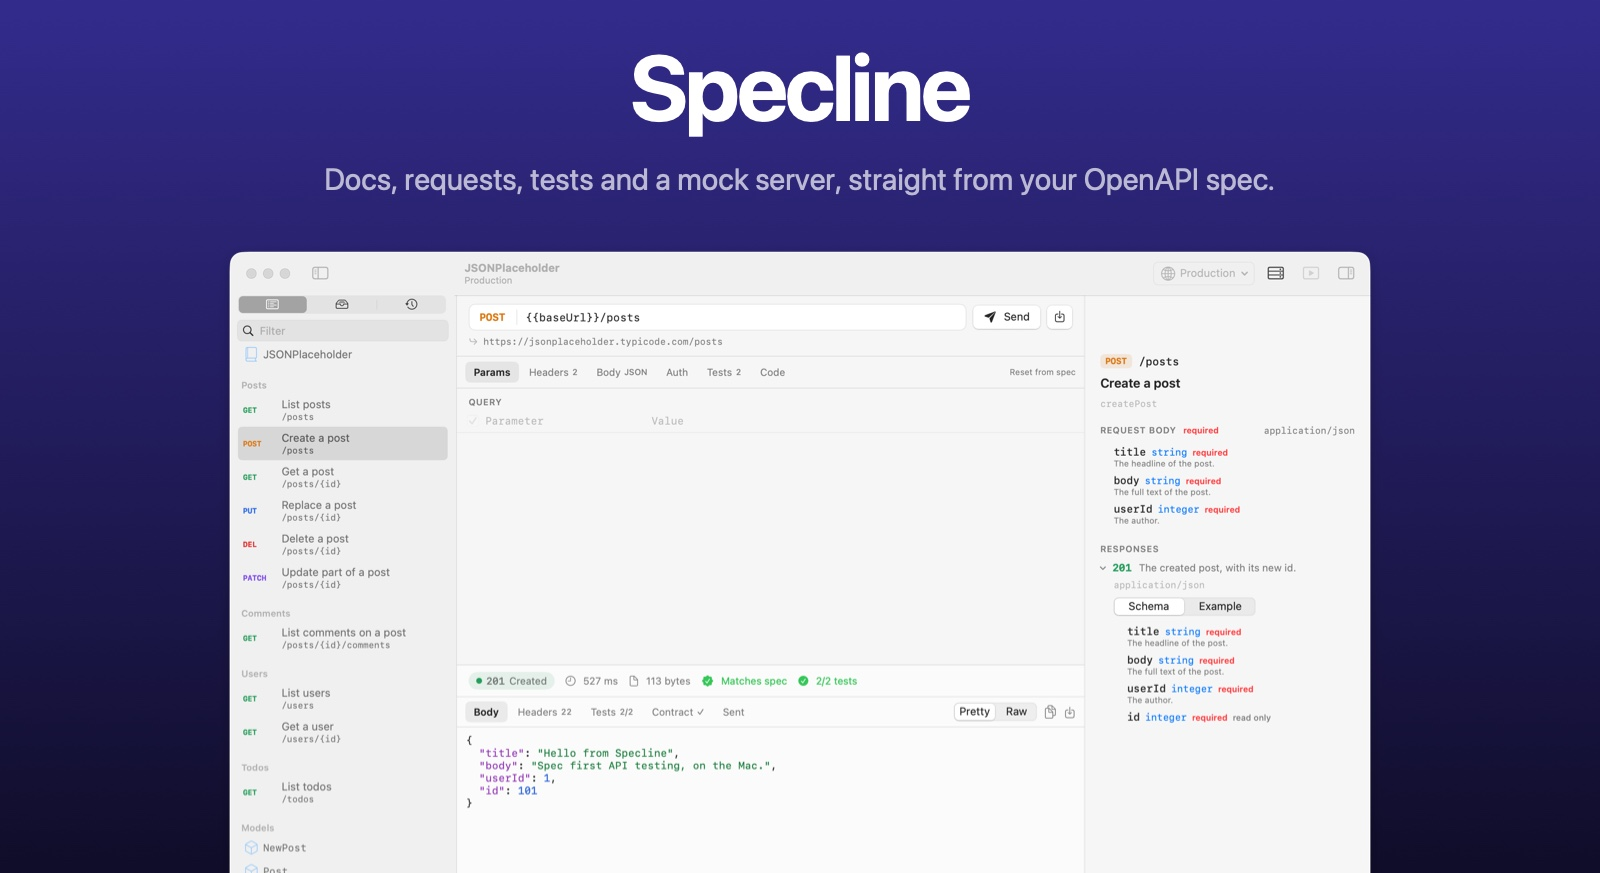
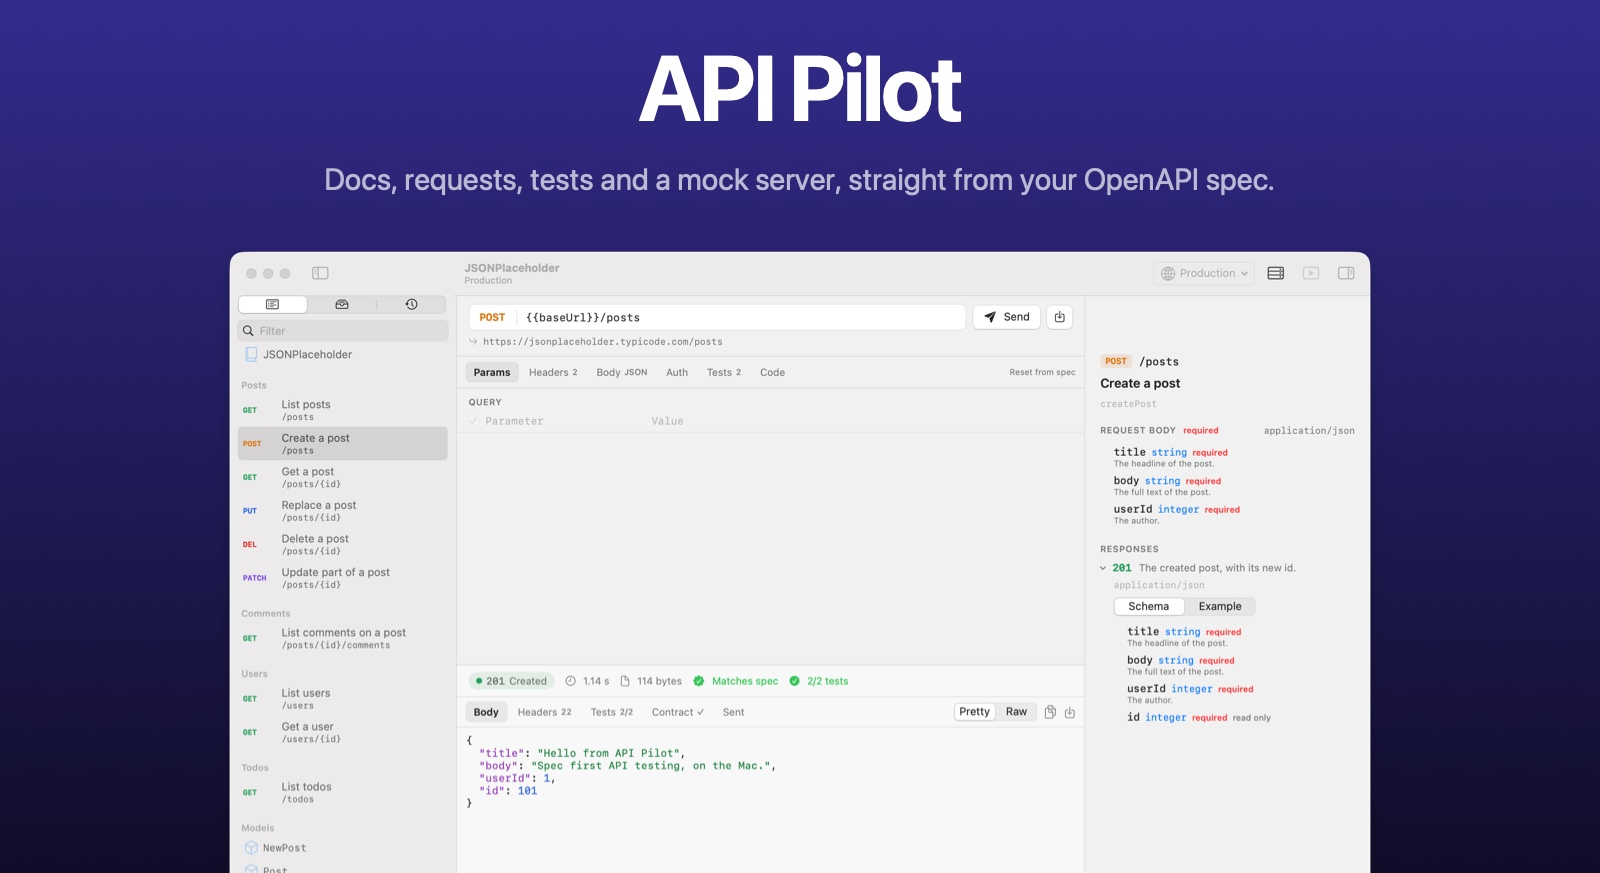
Rename the app to API Pilot

diff --git a/Sources/APIPilot/App/APIPilotApp.swift b/Sources/APIPilot/App/APIPilotApp.swift
@@ -2,12 +2,12 @@ import AppKit
 import SwiftUI
 
 @main
-struct SpeclineApp: App {
+struct APIPilotApp: App {
     @NSApplicationDelegateAdaptor(AppDelegate.self) private var delegate
     @State private var app = AppModel()
 
     var body: some Scene {
-        Window("Specline", id: "main") {
+        Window("API Pilot", id: "main") {
             RootView()
                 .environment(app)
                 .frame(minWidth: 1000, minHeight: 640)
@@ -85,7 +85,7 @@ struct RootView: View {
                     .id(ObjectIdentifier(workspace))
             } else {
                 WelcomeView()
-                    .navigationTitle("Specline")
+                    .navigationTitle("API Pilot")
             }
         }
         .onAppear {
@@ -103,16 +103,16 @@ struct RootView: View {
 
     private func applyLaunchArguments() {
         let defaults = UserDefaults.standard
-        if defaults.bool(forKey: "SpeclineSample") { app.openSample() }
-        if let path = defaults.string(forKey: "SpeclineOpen") { app.open(URL(fileURLWithPath: path)) }
-        guard let workspace = app.workspace, let id = defaults.string(forKey: "SpeclineSelect") else { return }
+        if defaults.bool(forKey: "APIPilotSample") { app.openSample() }
+        if let path = defaults.string(forKey: "APIPilotOpen") { app.open(URL(fileURLWithPath: path)) }
+        guard let workspace = app.workspace, let id = defaults.string(forKey: "APIPilotSelect") else { return }
         workspace.selection = id == "overview" ? .overview : .operation(id)
-        if defaults.bool(forKey: "SpeclineSend"), let session = workspace.currentSession {
+        if defaults.bool(forKey: "APIPilotSend"), let session = workspace.currentSession {
             workspace.send(session)
         }
     }
 }
 
 extension Notification.Name {
-    static let openFiles = Notification.Name("SpeclineOpenFiles")
+    static let openFiles = Notification.Name("APIPilotOpenFiles")
 }

diff --git a/Sources/APIPilot/Views/WelcomeView.swift b/Sources/APIPilot/Views/WelcomeView.swift
@@ -13,7 +13,7 @@ struct WelcomeView: View {
                 Image(nsImage: NSApp.applicationIconImage)
                     .resizable()
                     .frame(width: 84, height: 84)
-                Text("Specline")
+                Text("API Pilot")
                     .font(.system(size: 34, weight: .bold))
                     .padding(.top, 10)
                 Text("Your OpenAPI spec as docs, a request client, tests and a mock server, in one native app.")
@@ -85,7 +85,7 @@ struct WelcomeView: View {
         .sheet(isPresented: $app.showsOpenURL) {
             VStack(alignment: .leading, spacing: 12) {
                 Text("Open a spec from a URL").font(.headline)
-                Text("Specline keeps a copy so you can work offline, and Reload (⌘R) downloads it again.")
+                Text("API Pilot keeps a copy so you can work offline, and Reload (⌘R) downloads it again.")
                     .font(.callout)
                     .foregroundStyle(.secondary)
                 TextField("https://petstore3.swagger.io/api/v3/openapi.json", text: $address)
@@ -164,7 +164,7 @@ private struct RecentRow: View {
     }
 
     private var title: String {
-        if url.path.contains("/Specline/Sample/") { return "JSONPlaceholder sample" }
+        if url.path.contains("/API Pilot/Sample/") { return "JSONPlaceholder sample" }
         let folder = url.deletingLastPathComponent().lastPathComponent
         return url.deletingPathExtension().lastPathComponent.lowercased().hasPrefix("openapi") || url.deletingPathExtension().lastPathComponent.lowercased().hasPrefix("swagger")
             ? folder : url.lastPathComponent

diff --git a/Tests/APIPilotTests/APIPilotTests.swift b/Tests/APIPilotTests/APIPilotTests.swift
@@ -1,6 +1,6 @@
 import Foundation
 import Testing
-@testable import Specline
+@testable import APIPilot
 
 @Suite struct ParsingTests {
     let sample = try! SpecParser.parse(data: Data(SampleSpec.yaml.utf8))
@@ -32,7 +32,7 @@ import Testing
         #expect(draft.url == "{{baseUrl}}/posts")
         #expect(draft.bodyMode == .json)
         let body = try JSONParser.parse(draft.body)
-        #expect(body["title"]?.string == "Hello from Specline")
+        #expect(body["title"]?.string == "Hello from API Pilot")
         #expect(body["id"] == nil)
         #expect(draft.assertions.map(\.source) == [.status, .schema])
         #expect(draft.assertions.first?.expected == "201")
@@ -245,7 +245,7 @@ import Testing
         let (data, response) = try await URLSession.shared.data(from: URL(string: "http://127.0.0.1:\(port)/posts/5")!)
         #expect((response as? HTTPURLResponse)?.statusCode == 200)
         let body = try JSONParser.parse(data)
-        #expect(body["title"]?.string == "Hello from Specline")
+        #expect(body["title"]?.string == "Hello from API Pilot")
         #expect(body["id"]?.plainText == "1")
 
         var post = URLRequest(url: URL(string: "http://127.0.0.1:\(port)/posts")!)
@@ -266,6 +266,6 @@ import Testing
         let html = DocsExporter.html(for: spec)
         #expect(html.contains("<title>JSONPlaceholder API reference</title>"))
         #expect(html.contains("id=\"createpost\""))
-        #expect(html.contains("Hello from Specline"))
+        #expect(html.contains("Hello from API Pilot"))
     }
 }

diff --git a/Sources/APIPilot/Views/RequestView.swift b/Sources/APIPilot/Views/RequestView.swift
@@ -17,7 +17,7 @@ struct RequestView: View {
             }
         }
         .sheet(isPresented: Binding(get: { savingName != nil }, set: { if !$0 { savingName = nil } })) {
-            NameSheet(title: "Save request", prompt: "Saved requests live in .specline/requests so you can commit them with your code.",
+            NameSheet(title: "Save request", prompt: "Saved requests live in .apipilot/requests so you can commit them with your code.",
                       name: savingName ?? "", action: "Save") { name in
                 store.save(session, as: name)
             }
@@ -298,7 +298,7 @@ private struct AuthTab: View {
                     TextField("Client ID", text: $auth.clientID)
                     TextField("Client secret", text: $auth.clientSecret)
                     TextField("Scope", text: $auth.scope)
-                    Text("Specline fetches a token with the client credentials grant before sending, and reuses it until it expires.")
+                    Text("API Pilot fetches a token with the client credentials grant before sending, and reuses it until it expires.")
                         .font(.caption)
                         .foregroundStyle(.secondary)
                 }

diff --git a/Sources/APIPilot/Core/WorkspaceFiles.swift b/Sources/APIPilot/Core/WorkspaceFiles.swift
@@ -17,7 +17,7 @@ struct WorkspaceFiles {
     let specURL: URL
 
     var root: URL { specURL.deletingLastPathComponent() }
-    var dataFolder: URL { root.appendingPathComponent(".specline", isDirectory: true) }
+    var dataFolder: URL { root.appendingPathComponent(".apipilot", isDirectory: true) }
     var environmentsFolder: URL { dataFolder.appendingPathComponent("environments", isDirectory: true) }
     var requestsFolder: URL { dataFolder.appendingPathComponent("requests", isDirectory: true) }
     var configURL: URL { dataFolder.appendingPathComponent("workspace.json") }
@@ -37,7 +37,7 @@ struct WorkspaceFiles {
 
     static var supportFolder: URL {
         let folder = FileManager.default.urls(for: .applicationSupportDirectory, in: .userDomainMask)[0]
-            .appendingPathComponent("Specline", isDirectory: true)
+            .appendingPathComponent("API Pilot", isDirectory: true)
         try? FileManager.default.createDirectory(at: folder, withIntermediateDirectories: true)
         return folder
     }

diff --git a/Sources/APIPilot/Core/RequestBuilder.swift b/Sources/APIPilot/Core/RequestBuilder.swift
@@ -31,7 +31,7 @@ enum RequestError: Error, LocalizedError {
 }
 
 enum RequestBuilder {
-    static let userAgent = "Specline/1.0"
+    static let userAgent = "APIPilot/1.0"
 
     static func build(_ draft: RequestDraft, variables: [String: String], accessToken: String? = nil) throws -> ResolvedRequest {
         var unresolved = Set<String>()
@@ -104,7 +104,7 @@ enum RequestBuilder {
             body = Data(pairs.joined(separator: "&").utf8)
             if !hasContentType { headers.append(("Content-Type", "application/x-www-form-urlencoded")) }
         case .multipart:
-            let boundary = "Specline" + UUID().uuidString.replacingOccurrences(of: "-", with: "")
+            let boundary = "APIPilot" + UUID().uuidString.replacingOccurrences(of: "-", with: "")
             var data = Data()
             for field in draft.form where field.enabled && !field.key.isEmpty {
                 data.append(Data("--\(boundary)\r\n".utf8))

diff --git a/Sources/APIPilot/Core/MockServer.swift b/Sources/APIPilot/Core/MockServer.swift
@@ -13,7 +13,7 @@ struct MockLogEntry: Identifiable {
 
 final class MockServer {
     private var listener: NWListener?
-    private let queue = DispatchQueue(label: "com.thefolahan.specline.mock")
+    private let queue = DispatchQueue(label: "com.thefolahan.apipilot.mock")
     private var spec: APISpec
     private var routes: [(operation: APIOperation, regex: NSRegularExpression)] = []
     private var basePaths: [String] = []
@@ -172,7 +172,7 @@ final class MockServer {
             ("Access-Control-Allow-Origin", "*"),
             ("Access-Control-Allow-Headers", "*"),
             ("Access-Control-Allow-Methods", "GET, POST, PUT, PATCH, DELETE, OPTIONS, HEAD"),
-            ("X-Powered-By", "Specline mock")
+            ("X-Powered-By", "API Pilot mock")
         ]
         lines += all.map { "\($0.0): \($0.1)" }
         var data = Data((lines.joined(separator: "\r\n") + "\r\n\r\n").utf8)

diff --git a/Package.swift b/Package.swift
@@ -2,21 +2,21 @@
 import PackageDescription
 
 let package = Package(
-    name: "Specline",
+    name: "APIPilot",
     platforms: [.macOS(.v14)],
     dependencies: [
         .package(url: "https://github.com/jpsim/Yams.git", from: "5.1.0")
     ],
     targets: [
         .executableTarget(
-            name: "Specline",
+            name: "APIPilot",
             dependencies: ["Yams"],
-            path: "Sources/Specline"
+            path: "Sources/APIPilot"
         ),
         .testTarget(
-            name: "SpeclineTests",
-            dependencies: ["Specline"],
-            path: "Tests/SpeclineTests"
+            name: "APIPilotTests",
+            dependencies: ["APIPilot"],
+            path: "Tests/APIPilotTests"
         )
     ]
 )

diff --git a/Sources/APIPilot/App/SampleSpec.swift b/Sources/APIPilot/App/SampleSpec.swift
@@ -5,7 +5,7 @@ info:
   title: JSONPlaceholder
   version: "1.0"
   description: |
-    A free fake REST API for testing and prototyping, described as OpenAPI so you can explore Specline.
+    A free fake REST API for testing and prototyping, described as OpenAPI so you can explore API Pilot.
 
     Every request here goes to the live service at jsonplaceholder.typicode.com. Writes are accepted and echoed back, but nothing is stored.
 servers:
@@ -220,7 +220,7 @@ components:
         title:
           type: string
           description: The headline of the post.
-          example: Hello from Specline
+          example: Hello from API Pilot
         body:
           type: string
           description: The full text of the post.

diff --git a/Sources/APIPilot/Core/Keychain.swift b/Sources/APIPilot/Core/Keychain.swift
@@ -2,7 +2,7 @@ import Foundation
 import Security
 
 enum Keychain {
-    private static let service = "com.thefolahan.specline"
+    private static let service = "com.thefolahan.apipilot"
 
     static func read(_ account: String) -> String? {
         let query: [String: Any] = [
@@ -32,7 +32,7 @@ enum Keychain {
         if status == errSecItemNotFound {
             var insert = query
             insert[kSecValueData as String] = data
-            insert[kSecAttrLabel as String] = "Specline secret"
+            insert[kSecAttrLabel as String] = "API Pilot secret"
             SecItemAdd(insert as CFDictionary, nil)
         }
     }

diff --git a/scripts/make-hero.swift b/scripts/make-hero.swift
@@ -31,7 +31,7 @@ func draw(_ text: String, size: CGFloat, weight: NSFont.Weight, color: NSColor, 
     string.draw(at: CGPoint(x: (width - bounds.width) / 2, y: y))
 }
 
-draw("Specline", size: 92, weight: .bold, color: .white, y: height - 140, tracking: -3)
+draw("API Pilot", size: 92, weight: .bold, color: .white, y: height - 140, tracking: -3)
 draw("Docs, requests, tests and a mock server, straight from your OpenAPI spec.", size: 30, weight: .regular,
      color: NSColor(white: 1, alpha: 0.68), y: height - 196)
 

diff --git a/Sources/APIPilot/Views/EnvironmentEditor.swift b/Sources/APIPilot/Views/EnvironmentEditor.swift
@@ -54,7 +54,7 @@ struct EnvironmentEditor: View {
             }
             Divider()
             HStack {
-                Text("Values live in .specline/environments. Secret values are kept in your Keychain and never written to the repository.")
+                Text("Values live in .apipilot/environments. Secret values are kept in your Keychain and never written to the repository.")
                     .font(.caption)
                     .foregroundStyle(.secondary)
                 Spacer()
